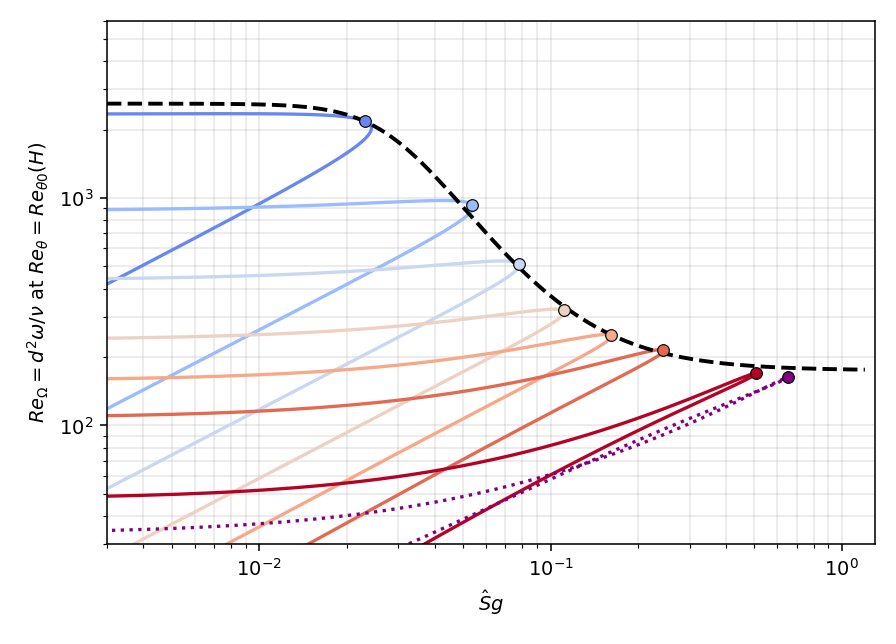
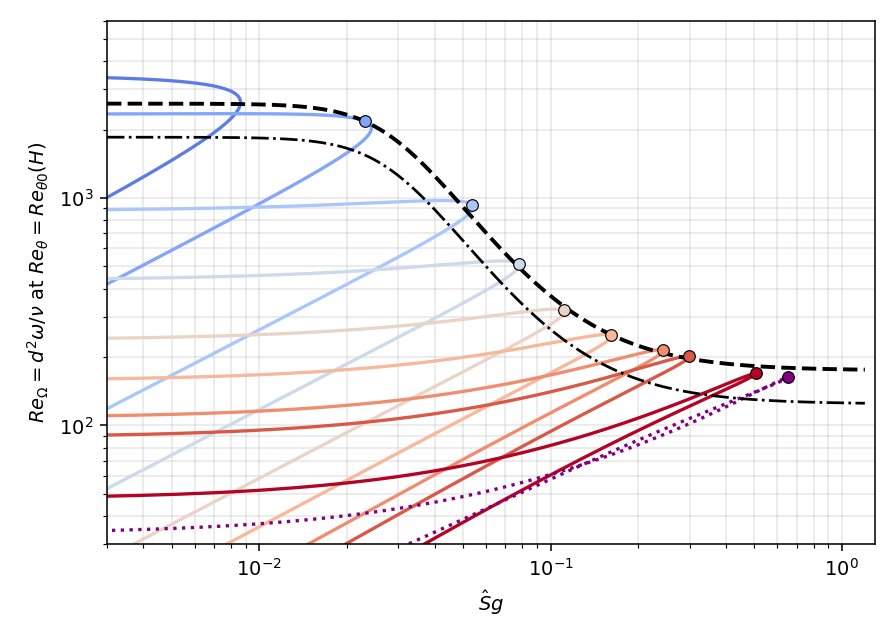
annotated round 4: max-Shg columns, richer graze (+0.25/-0.17 + k-scaled threshold), Fig-3 at beta=+0.10, rigor sweeps
Tables 2-3 now carry max_y Shg (Table 3 identified by it alone; Table 2
establishes the beta map) so the airfoil Shg visualizations later have a
calibrated scale. Graze gains two members (+0.25 also grazes ~1.3 -> edge
restated as beta>=+0.25) and the calibrated-k threshold as dash-dot; its
caption drops the ignition/k-provenance sentences. Fig 3's bottom row is
now the mildly favorable beta=+0.10 (N=1 ~11% early, growth stretched ~3x
Blasius) with corner-tuned ylim and per-row max-Shg labels; the favorable
paragraph grades the degradation in max Shg down to the beta~0.45
suppression boundary. Wording rigor: curvature-reversal phrasing replaces
'inflectional content'; seed = one unit of an arbitrary infinitesimal
(linearity cancels magnitude); 'model first lets its growth rate turn
positive'; parabolized-BL reference added; SA-calibration-safety forward
pointer at eq:nulamscale. pdflatex: 0 errors, 0 undefined refs.

diff --git a/paper/sa-ai.tex b/paper/sa-ai.tex
@@ -541,8 +541,10 @@ below), reached where $\hat S g\!\ge\!1$ at the shear pole ($\hat S\!\to\!1$, th
 free-shear-layer limit). No
 near-neutral shaping is needed: measured against the Drela--Giles envelope,
 the linear rate tracks it across the attached shape-factor family, softening
-only at the separation edge (below). Because a favorable gradient collapses the
-inflectional content, $\hat S g\!\to\!0$ there and the rate vanishes with it---no
+only at the separation edge (below). Because a favorable gradient keeps the profile's curvature
+single-signed---the accumulated curvature reversal that carries a layer
+across the neutral circle never builds---$\hat S g\!\to\!0$ there and the
+rate vanishes with it---no
 separate suppression term is needed.
 
 The prefactor $a_{\max}$ is a natural physical limit, set by the structure of
@@ -599,22 +601,24 @@ shallow reversed-flow branch the ratio is $0.97$.
   $\max_y a\,\omega/u$, as a ratio to the Drela--Giles spatial envelope
   rate $s_{\mathrm{DG}}/\theta$, on five Falkner--Skan profiles (starred:
   the reversed-flow, Stewartson lower-branch solution of the same
-  $\beta$). The ratio is
+  $\beta$). $\max_y\hat S g$ is each profile's peak rate coordinate---the
+  scale the airfoil visualizations of
+  Secs.~\ref{sec:nlfval}--\ref{sec:eppval} are read against. The ratio is
   independent of Reynolds number and of any diffusion: it is the most
   growth per unit length the rate can sustain on the profile. The
   diffusion retained by the working variable, taken up next, lowers the
   realized slope toward and below these values at transitional Reynolds
   numbers (Table~\ref{tab:frozeneig}).}
   \label{tab:ratelimit}
-  \begin{tabular}{lrrc}
+  \begin{tabular}{lrrrc}
     \toprule
-    profile & $\beta$ & $H$ & $\theta\,\max_y(a\,\omega/u)\;/\;s_{\mathrm{DG}}$\\
+    profile & $\beta$ & $H$ & $\max_y \hat S g$ & $\theta\,\max_y(a\,\omega/u)\;/\;s_{\mathrm{DG}}$\\
     \midrule
-    moderate favorable & $+0.10$ & 2.48 & 1.30\\
-    Blasius & $0$ & 2.59 & 1.42\\
-    moderate adverse & $-0.10$ & 2.80 & 1.30\\
-    separation limit & $-0.1988$ & 3.98 & 0.97\\
-    separated, shallow$^\ast$ & $-0.19$ & 4.92 & 0.97\\
+    moderate favorable & $+0.10$ & 2.48 & 0.037 & 1.30\\
+    Blasius & $0$ & 2.59 & 0.078 & 1.42\\
+    moderate adverse & $-0.10$ & 2.80 & 0.162 & 1.30\\
+    separation limit & $-0.1988$ & 3.98 & 0.510 & 0.97\\
+    separated, shallow$^\ast$ & $-0.19$ & 4.92 & 0.657 & 0.97\\
     \bottomrule
   \end{tabular}
 \end{table}
@@ -664,7 +668,10 @@ $c_{\nu,\mathrm{ai}}\!<\!1$,
 \end{equation}
 leaving the mean-flow viscosity, the SA production and destruction, and the
 definition $\chi=\tilde\nu/\nu$ (formed with the \emph{true} $\nu$)
-untouched. How much less, the eigenvalue decides, read against a
+untouched. Doing so barely disturbs the original SA calibration---the
+scaling multiplies a term that is negligible or exactly zero wherever
+that calibration acts, quantified in Sec.~\ref{sec:calib_diff}. How much
+less, the eigenvalue decides, read against a
 constraint that pulls the other way. Halving the coefficient down the
 ladder $c_{\nu,\mathrm{ai}}=1,\tfrac12,\tfrac13,\tfrac16,\tfrac1{12}$,
 the station just past the Blasius critical station ($Re_\theta\!=\!400$) climbs
@@ -673,8 +680,8 @@ correlation at $\tfrac16$ and overshoots past it. The family arrives
 together---the favorable wedge's lone unstable station reads $1.02$ at
 the same $\tfrac16$, and the moderate adverse crosses unity between
 $\tfrac13$ and $\tfrac16$ ($1.04$ at $Re_\theta\!=\!400$). Pressing
-further toward the inviscid ceiling would buy nothing the correlation
-asks for: the molecular floor sets
+further toward the inviscid ceiling would demand ever more grid
+resolution: the molecular floor sets
 the smallest wall-normal scale the $\tilde\nu$ field can develop, the
 equilibrium band thickness scaling as $\sqrt{c_{\nu,\mathrm{ai}}}$, so
 every halving thins the disturbance band the mesh must resolve by
@@ -702,7 +709,9 @@ diffusivity positive, $c_{\nu,\mathrm{ai}}\nu + f_n\tilde\nu\!>\!0$.
   retained---as a ratio to the Drela--Giles rate $s_{\mathrm{DG}}/\theta$
   across the transitional decade $Re_\theta=200$--$1600$, at the untouched
   molecular coefficient ($c_{\nu,\mathrm{ai}}\!=\!1$) and at the adopted
-  $c_{\nu,\mathrm{ai}}\!=\!\tfrac16$. Entries appear only at stations
+  $c_{\nu,\mathrm{ai}}\!=\!\tfrac16$. Profiles are identified by their
+  peak rate coordinate $\max_y\hat S g$ (the $\beta$ map is
+  Table~\ref{tab:ratelimit}). Entries appear only at stations
   above the profile's Drela--Giles critical Reynolds number
   $Re_{\theta 0}(H)$ (third column): where the profile is stable, the
   correlation has no growth to compare against. Each entry is one
@@ -718,18 +727,18 @@ diffusivity positive, $c_{\nu,\mathrm{ai}}\nu + f_n\tilde\nu\!>\!0$.
     & & & \multicolumn{4}{c}{$c_{\nu,\mathrm{ai}}=1$}
       & \multicolumn{4}{c}{$c_{\nu,\mathrm{ai}}=1/6$}\\
     \cmidrule(lr){4-7}\cmidrule(lr){8-11}
-    profile & $\beta$ & $Re_{\theta 0}$ & $200$ & $400$ & $800$ & $1600$
+    profile & $\max_y \hat S g$ & $Re_{\theta 0}$ & $200$ & $400$ & $800$ & $1600$
                       & $200$ & $400$ & $800$ & $1600$\\
     \midrule
-    moderate favorable & $+0.10$ & $827$ & -- & -- & -- & $0.63$
+    moderate favorable & $0.037$ & $827$ & -- & -- & -- & $0.63$
                                  & -- & -- & -- & $1.02$\\
-    Blasius            & $0$     & $242$ & -- & $0.49$ & $0.75$ & $0.94$
+    Blasius            & $0.078$ & $242$ & -- & $0.49$ & $0.75$ & $0.94$
                                  & -- & $1.02$ & $1.13$ & $1.21$\\
-    moderate adverse   & $-0.10$ & $97$ & $0.50$ & $0.72$ & $0.87$ & $0.99$
+    moderate adverse   & $0.162$ & $97$ & $0.50$ & $0.72$ & $0.87$ & $0.99$
                                  & $0.94$ & $1.04$ & $1.11$ & $1.16$\\
-    separation limit   & $-0.1988$ & $36$ & $0.64$ & $0.72$ & $0.79$ & $0.83$
+    separation limit   & $0.510$ & $36$ & $0.64$ & $0.72$ & $0.79$ & $0.83$
                                  & $0.82$ & $0.86$ & $0.89$ & $0.91$\\
-    separated, shallow$^\ast$ & $-0.19$ & $26$ & $0.68$ & $0.75$ & $0.80$ & $0.85$
+    separated, shallow$^\ast$ & $0.657$ & $26$ & $0.68$ & $0.75$ & $0.80$ & $0.85$
                                  & $0.83$ & $0.87$ & $0.89$ & $0.91$\\
     \bottomrule
   \end{tabular}
@@ -800,23 +809,19 @@ parameter anywhere.
   Falkner--Skan profile, at its Drela--Giles critical Reynolds number
   $Re_{\theta 0}(H)$, traces a curve in the $(\hat S g,\,Re_\Omega)$ plane:
   solid, colored blue to red with decreasing $\beta$, the attached family
-  $\beta = +0.35$, $+0.15$, $+0.05$, $0$ (Blasius), $-0.05$, $-0.10$,
-  $-0.15$, $-0.1988$ (incipient separation); dotted, a separated
-  reversed-flow profile, the Stewartson lower-branch solution at
+  $\beta = +0.35$, $+0.25$, $+0.15$, $+0.05$, $0$ (Blasius), $-0.05$,
+  $-0.10$, $-0.15$, $-0.17$, $-0.1988$ (incipient separation); dotted, a
+  separated reversed-flow profile, the Stewartson lower-branch solution at
   $\beta\!=\!-0.19$ ($H\!\approx\!4.9$). The attached family
   shares the dashed outer envelope, which each member grazes at its marked
   closest-approach point: graze ratios $0.93$--$1.14$ (root-mean-square
   $\sim\!6\%$) from incipient separation through $\beta=+0.15$, rising to
-  $\sim\!1.3$ at the strongly favorable $\beta=+0.35$ edge. The soft-min
+  $\sim\!1.3$ at the strongly favorable edge ($\beta\!\geq\!+0.25$). The
+  soft-min
   shape of Eq.~\eqref{eq:reomc}, at $k\!=\!1$, is that envelope: a ceiling on the favorable
-  (small $\hat S g$) side, an additive floor toward separation. The separated
-  reversed-flow profile continues the family's graze (closest approach
-  $0.91$ at its own, very low $Re_{\theta 0}\!\approx\!26$); at the
-  Reynolds numbers a separation bubble actually reaches,
-  $Re_\Omega\!\propto\!Re_\theta$ carries it far above the floor and it
-  ignites at once. The compensation scale $k$ of
-  Eq.~\eqref{eq:reomc} is not set by the graze but by the march anchor
-  below.}
+  (small $\hat S g$) side, an additive floor toward separation; dash-dot,
+  the model threshold---the same shape scaled by the calibrated
+  $k\!=\!0.712$ of the march anchor below.}
   \label{fig:onsetgraze}
 \end{figure}
 
@@ -849,7 +854,7 @@ with $\operatorname{softmin}_2(x_1,x_2)\!=\!x_1 x_2/\sqrt{x_1^2+x_2^2}$; the
 graze fixes the three shape constants to a root-mean-square graze error of
 $\sim\!6\%$ from incipient separation through $\beta\!=\!+0.15$ (the
 soft-min exponent $2$ is the best of the sharpnesses tried), and they are
-never refit; the strongly favorable $\beta\!=\!+0.35$ member grazes
+never refit; the strongly favorable members ($\beta\!\geq\!+0.25$) graze
 $\sim\!1.3$ high, consistent with the favorable-branch departure the
 calibration will meet below.
 
@@ -859,15 +864,15 @@ amplification also \emph{diffuses}, with the retained molecular
 coefficient $c_{\nu,\mathrm{ai}}\nu$ of Sec.~\ref{sec:nulamscale}, all
 the while it grows. The drain is felt most where inception
 happens at low Reynolds number---in a thin layer the young disturbance loses
-to viscosity for a while after linear theory declares its growth begun, so
+to viscosity for a while after the model first lets its growth rate turn
+positive, so
 net growth starts late. The compensation is to permit inception
 \emph{earlier} than the inviscid graze: one factor $k\!<\!1$ scales the
 whole threshold, so that the accumulated growth reaches the correlation's
-first station on time. Its size is not a matter for the frozen-profile
-eigenvalue, which knows nothing of a disturbance's youth; it is measured
-with the model's own equation, marched down the layer.
+first station on time. Its size has to be measured, with the model's
+own equation marched down the layer.
 
-The instrument is that equation reduced to a parabolized march:
+The simplest such instrument is a parabolized march of that equation:
 in non-dimensional boundary-layer variables (length in $\nu/U_\infty$,
 velocity in $U_\infty$),
 \begin{equation}
@@ -878,10 +883,16 @@ velocity in $U_\infty$),
 \end{equation}
 keeping the amplification and the molecular part of the SA cross-stream
 diffusion (the $\tilde\nu\,\nabla^2\tilde\nu$ self-diffusion and $c_{b2}$
-gradient terms are $O(\chi)$ smaller in this range and are dropped; no SA
-production or destruction enters---those belong to the turbulent side,
-Sec.~\ref{sec:blend}). The march is seeded
-$\hat\nu_\infty\!=\!1$ at the leading edge, so $N\!=\!\ln\hat\nu$ is the
+gradient terms are $O(\chi)$ smaller in this range and are dropped,
+in the manner of the classical parabolized boundary-layer
+equations~\cite{white_2006}; no SA
+production or destruction enters---those are switched off where
+$\chi\!\ll\!1$ by the handover weights of Sec.~\ref{sec:blend}). The
+march is seeded
+at the leading edge with one unit of an arbitrary infinitesimal: the
+equation is linear in $\hat\nu$, so the seed's magnitude cancels from
+every ratio and only the accumulated growth is meaningful. Measured in
+that unit, $N\!=\!\ln\hat\nu$ is the
 amplification factor by construction, and its envelope can be laid directly
 against Drela--Giles~\cite{drela_giles_1987}. (The crossings quoted in this
 subsection are grid-converged values of the march; the $N\!=\!1$ crossing in
@@ -893,7 +904,8 @@ where inception occurs.)
   \includegraphics[width=0.99\textwidth]{fs_nuHat_rows.pdf}
   \caption{The disturbance transport \eqref{eq:transport} on three wedge
   flows---adverse ($\beta\!=\!-0.10$, top), Blasius ($\beta\!=\!0$, middle:
-  the calibration anchor), and favorable ($\beta\!=\!+0.30$, bottom)---seeded
+  the calibration anchor), and mildly favorable ($\beta\!=\!+0.10$,
+  bottom)---seeded
   $\hat\nu_\infty\!=\!1$, $a_{\max}=0.19$.
   \textbf{Left column} (a,c,e): contours of $N\!=\!\ln\hat\nu$ at the
   canonical $(c_{\nu,\mathrm{ai}},k)=(\tfrac16,\,0.712)$ in the
@@ -910,10 +922,11 @@ where inception occurs.)
   canonical envelope meets the correlation at $N\!=\!1$ by construction
   (Sec.~\ref{sec:calib_onset}); its $N\!=\!9$ crossing is an untuned
   prediction, $7\%$ past Drela's. The adverse wedge (b) ignites earlier and
-  grows faster. The favorable wedge (f) has $\hat S g\!\to\!0$: the rate all
-  but vanishes and transition is pushed an order of magnitude past the
-  Blasius $Re_\theta$, approaching the vanishing favorable growth the Drela
-  envelope requires---with no pressure-gradient parameter anywhere. A
+  grows faster. The mildly favorable wedge (f) stays close to the
+  correlation---its $N\!=\!1$ station lands ${\sim}11\%$ early---with the
+  suppressed rate stretching the growth over a run nearly three times
+  Blasius's, and no pressure-gradient parameter anywhere. Each row's
+  $\max_y\hat S g$ is listed at its left edge. A
   physical case seeded with $\chi_\infty$ hands over where its envelope
   crosses $N_\mathrm{crit}=\ln(c_{v1}/\chi_\infty)$ ($\chi\!=\!c_{v1}$; the
   seed convention of Sec.~\ref{sec:flatplate}).}
@@ -980,18 +993,22 @@ Drela--Giles across the attached family and softens through the separation limit
 onto the reversed-flow branch (Fig.~\ref{fig:calibrate}a); the softening is
 structural---the amplifying band thins as the profile approaches full
 inflection, so the integrated envelope falls below the pointwise rate. The
-favorable branch is the model's weak point: as $\hat S g\!\to\!0$ the rate falls faster
-than Drela's and the onset rises above Drela's critical Reynolds number. At
-$\beta\!\approx\!0.35$ ($H\!\approx\!2.34$) the rate is
+favorable branch is where the model degrades, and the rate coordinate
+grades the degradation (Fig.~\ref{fig:calibrate}). At
+$\max_y\hat S g\!\approx\!0.04$ ($\beta\!=\!+0.10$, the bottom row of
+Fig.~\ref{fig:nuhat}) the model is still roughly right, the marched
+$N\!=\!1$ station ${\sim}11\%$ early; the family holds that level through
+$\max_y\hat S g\!\approx\!0.02$ ($\beta\!=\!+0.15$). Beyond, the rate falls
+faster than Drela's and the onset climbs above the critical Reynolds
+number: by $\max_y\hat S g\!\approx\!2\!\times\!10^{-3}$
+($\beta\!=\!+0.35$, $H\!\approx\!2.34$) the rate is
 $\approx\!0.1\times$ Drela and the onset $\approx\!3\times$ its critical
 $Re_\theta$; by $\beta\!\approx\!0.45$ transition has retreated beyond any
 station of practical relevance (the marched $N\!=\!1$ station past
 $Re_\theta\!\sim\!5\!\times\!10^5$), and stronger favorable wedges are
-suppressed outright. The moderate case is the bottom row of Fig.~\ref{fig:nuhat}:
-at $\beta\!=\!+0.30$ transition survives but is pushed an order of magnitude
-past the Blasius $Re_\theta$. The linear $\hat S g$ has no
+suppressed outright. The linear $\hat S g$ has no
 near-neutral floor to hold the small favorable growth Drela's envelope keeps;
-matching the favorable branch is left to future work.
+matching the strongly favorable branch is left to future work.
 
 \subsection{The blend and its handover}\label{sec:blend}\label{sec:calib_diff}
 A handover weight ties the laminar and turbulent regimes to the single state

diff --git a/paper/repro/analytic/fig03_fs_transport_rows.py b/paper/repro/analytic/fig03_fs_transport_rows.py
@@ -54,7 +54,9 @@ def size_domain(fs, x0, beta):
 
 
 def main():
-    ROWS = [(-0.10, 1.2e6, 8000), (0.0, 4.0e6, 12000), (0.30, 3e5, 120000)]
+    # (beta, x0 domain guess, ylim; None = tune so the N=1 contour just
+    # reaches the upper-right corner)
+    ROWS = [(-0.10, 1.2e6, 8000), (0.0, 4.0e6, 12000), (0.10, 3e6, None)]
     fig, axs = plt.subplots(3, 2, figsize=(11.2, 8.4), layout='constrained')
     for irow, (beta, x0, ylimL) in enumerate(ROWS):
         fs = FalknerSkanWedge(beta); I_th, H = profile_ints(fs)
@@ -67,6 +69,15 @@ def main():
         Rex = xs*Ue; ReyScale = Ue
         X = np.repeat(Rex[:, None], len(yc), 1); Y = yc[None, :]*ReyScale[:, None]
         lev = np.arange(1, 15, 1)
+        if ylimL is None:
+            # place the N=1 contour just at the upper-right corner: highest
+            # Re_y anywhere on the N>=1 region's upper edge
+            tops = []
+            for i in range(len(xs)):
+                j = np.where(N2d[i] >= 1.0)[0]
+                if len(j):
+                    tops.append(yc[j[-1]]*ReyScale[i])
+            ylimL = 1.05*float(max(tops))
         cs = axL.contour(X, Y, N2d, levels=lev, colors='k', linewidths=0.7)
         axL.clabel(cs, levels=lev[::2], fmt='%d', fontsize=6.5, inline_spacing=2)
         th = I_th*np.sqrt(xs/np.maximum(Ue, 1e-30)); d99 = eta99*np.sqrt(xs/np.maximum(Ue, 1e-30))
@@ -74,7 +85,13 @@ def main():
         axL.set_ylim(0, ylimL); axL.set_xlim(0, Rex.max())
         axL.annotate(r'$\delta_{99}$', (0.86*Rex.max(), 1.12*float(np.interp(0.86*Rex.max(), Rex, d99*ReyScale))), color='0.35', fontsize=9)
         axL.annotate(r'$\theta$', (0.9*Rex.max(), 0.55*float(np.interp(0.9*Rex.max(), Rex, th*ReyScale))), color='0.35', fontsize=9)
-        axL.set_ylabel(fr'$\beta={beta:+.2f}$ ($H={H:.2f}$)''\n'r'$Re_y$')
+        upp0 = np.gradient(fs.dudeta, fs.eta)
+        Xk, Yk = fs.u, fs.eta*fs.dudeta
+        Zk = 0.5*fs.eta**2*upp0
+        Rk = np.sqrt(Xk*Xk + Yk*Yk + Zk*Zk) + 1e-30
+        msg = float(np.max((Yk/np.sqrt(Xk*Xk + Yk*Yk + 1e-30))*(Yk - Xk - Zk)/Rk))
+        axL.set_ylabel(fr'$\beta={beta:+.2f}$ ($H={H:.2f}$, '
+                       fr'$\max\hat S g={msg:.3f}$)''\n'r'$Re_y$')
         if irow == 2: axL.set_xlabel(r'$Re_x$')
         axL.text(0.02, 0.95, f'({chr(97+2*irow)})', transform=axL.transAxes, fontsize=11, va='top', fontweight='bold')
         env = fld.max(axis=1)

diff --git a/paper/repro/analytic/tab_frozen_slope.py b/paper/repro/analytic/tab_frozen_slope.py
@@ -89,6 +89,14 @@ def s_ratio(pr, Re_theta, cnu):
     return float(w[0])*pr['I_th']/pr['sDG']
 
 
+def max_shg(pr):
+    y, u, up = pr['y'], pr['u'], pr['up']
+    upp = np.gradient(up, y)
+    X, Y, Z = u, y*up, 0.5*y**2*upp
+    R = np.sqrt(X*X + Y*Y + Z*Z) + 1e-30
+    return float(np.max((Y/np.sqrt(X*X + Y*Y + 1e-30))*(Y - X - Z)/R))
+
+
 def s_limit_ratio(pr):
     """Re -> infinity: pointwise sup of growth over advection, over Drela."""
     return float(np.max(pr['b']/np.maximum(pr['u'], UFLOOR)))*pr['I_th']/pr['sDG']
@@ -137,9 +145,10 @@ def main():
     prs = [(build(b, g), b, lab) for b, g, lab in PROFILES]
 
     print("tab:ratelimit (inviscid limit, any c_nu,ai):")
-    print(f"{'profile':>20} {'beta':>8} {'H':>6} {'limit':>7}")
+    print(f"{'profile':>20} {'beta':>8} {'H':>6} {'maxShg':>7} {'limit':>7}")
     for pr, beta, lab in prs:
-        print(f"{lab:>20} {beta:+8.4f} {pr['H']:6.2f} {s_limit_ratio(pr):7.2f}")
+        print(f"{lab:>20} {beta:+8.4f} {pr['H']:6.2f} {max_shg(pr):7.3f} "
+              f"{s_limit_ratio(pr):7.2f}")
 
     print("\ntab:frozeneig (ratio to Drela; -- where the profile is STABLE,")
     print("Rt < Re_theta0(H), and the correlation has no growth to compare):")

diff --git a/paper/repro/analytic/fig02_onset_graze.py b/paper/repro/analytic/fig02_onset_graze.py
@@ -23,19 +23,21 @@ from lib.correlations import Re_theta0
 
 CEIL, A_, B_, N_ = 2600.0, 175.0, 2.0, 2.0
 
-# Attached family from strong favorable through incipient separation, plus the
+# Attached family (10 members, +0.35..-0.1988) through incipient separation, plus the
 # separated reversed-flow (Stewartson lower-branch) profile at beta=-0.19
 # (H~4.9) drawn DOTTED. Deeper members (H>~5) are excluded: Drela's OS data
 # stop at H=5 and no similarity family is validated beyond.
 # No legend: the betas are listed in the caption; color runs with beta.
 PROFILES = [
     (0.35,  None,  None, 'favorable'),
+    (0.25,  None,  None, 'favorable'),
     (0.15,  None,  None, 'favorable'),
     (0.05,  None,  None, 'favorable'),
     (0.0,   None,  None, 'Blasius'),
     (-0.05, None,  None, 'adverse'),
     (-0.10, None,  None, 'adverse'),
     (-0.15, None,  None, 'adverse'),
+    (-0.17, None,  None, 'adverse'),
     (-0.1988, None, None, 'incipient separation'),
     (-0.19, -0.03, None, 'separated (reversed)'),
 ]
@@ -68,6 +70,10 @@ def main():
     fig, ax = plt.subplots(figsize=(6.4, 4.6))
     Pg = np.geomspace(3e-3, 1.2, 400)
     ax.loglog(Pg, softmin(Pg), 'k--', lw=2.0, zorder=5)
+    # the model threshold: the same shape scaled by the calibrated k
+    # (anchored by the march, Sec. II.D), shifted down by 29%
+    from fig04_shapefactor import K_ANCHOR
+    ax.loglog(Pg, K_ANCHOR*softmin(Pg), 'k-.', lw=1.4, zorder=5)
     cmap = plt.cm.coolwarm
     natt = sum(1 for p in PROFILES if p[1] is None)
     j = 0

diff --git a/paper/annotation-review-log.md b/paper/annotation-review-log.md
@@ -1737,3 +1737,37 @@ Previous request (extra profile between Blasius and beta=-0.1) was
 mistaken and is reverted; the added member is now beta=-0.15 (red-orange)
 between beta=-0.1 and the separation limit, per the corrected instruction.
 Caption lists it exactly.
+
+## 2026-07-23 annotated.pdf round 4 (20:27, pp.10-16, 13 remarks)
+1. "inflectional" (rate paragraph) -> rigorous: "keeps the profile's
+   curvature single-signed---the accumulated curvature reversal that
+   carries a layer across the neutral circle never builds".
+2. eq:nulamscale aftermath -> added "Doing so barely disturbs the original
+   SA calibration... quantified in Sec. II.E" forward pointer.
+3. "buy nothing the correlation asks for" -> "demand ever more grid
+   resolution".
+4. max S_hat*g columns added to Tables 2-3 (Table 3's beta column REPLACED
+   by max S_hat*g; Table 2 carries both to establish the map); generator
+   prints the column; captions note the airfoil-visualization calibration
+   purpose.
+5. Graze figure: beta=+0.25 and -0.17 added (10 attached members; +0.25
+   also grazes ~1.3, so "the strongly favorable edge (beta>=+0.25)");
+   the calibrated-k model threshold added as dash-dot.
+6. Graze caption: separated-profile ignition sentence and the k-provenance
+   sentence removed (body retains both stories).
+7. k-size sentence -> "Its size has to be measured, with the model's own
+   equation marched down the layer."
+8. "after linear theory declares its growth begun" -> "after the model
+   first lets its growth rate turn positive".
+9. "The simplest such instrument is a parabolized march"; classical
+   parabolized-BL reference (White) added after "are dropped".
+10. "belong to the turbulent side" -> "switched off where chi<<1 by the
+    handover weights of Sec. II.E".
+11. Seed made rigorous: one unit of an arbitrary infinitesimal; linearity
+    cancels the magnitude; N measured in that unit.
+12. Fig 3 bottom row: beta=+0.30 -> +0.10; left-column ylim auto-tuned so
+    the N=1 contour just reaches the upper-right corner; each row label
+    carries its max S_hat*g.
+13. Favorable-branch paragraph now grades the degradation in max S_hat*g
+    (0.04: ~11% early; holds to 0.02; 2e-3: rate 0.1x/onset 3x; beta~0.45
+    suppressed), pointing at Figs. 3-4.